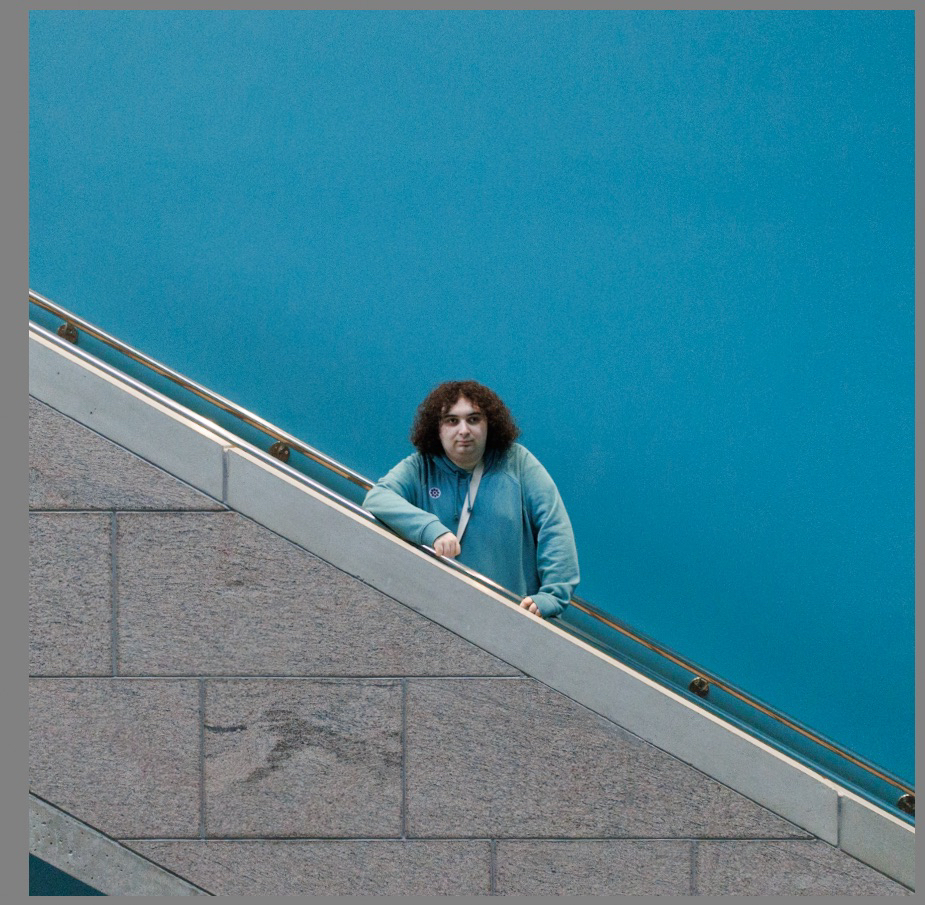
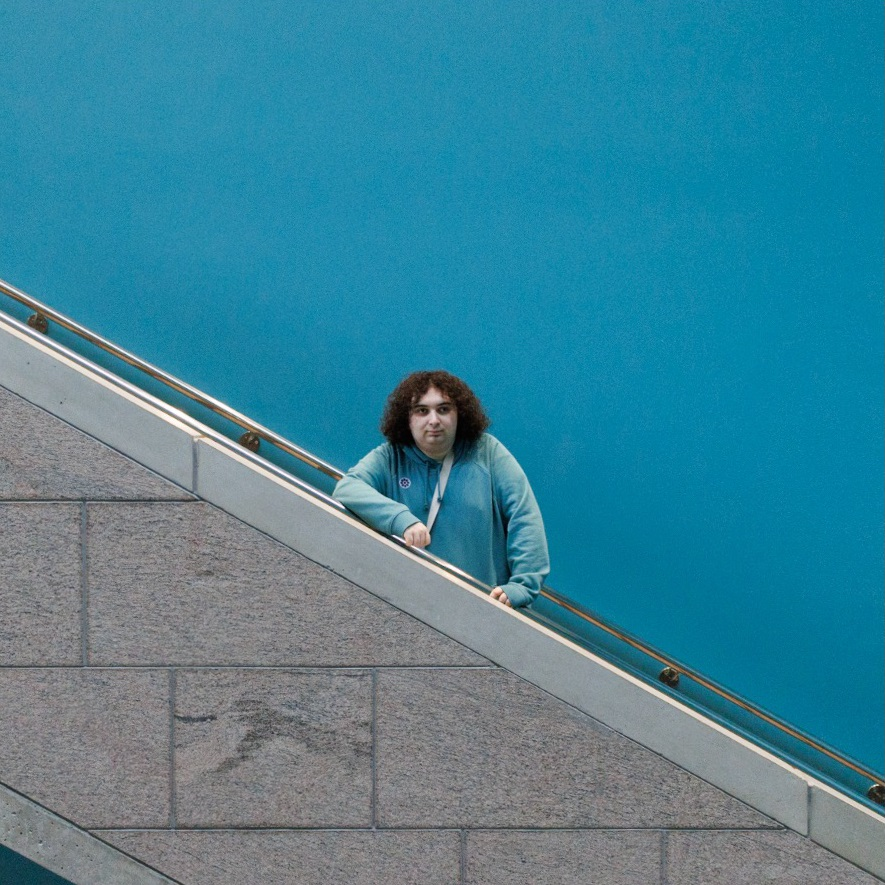
fix: full width staff photos in profile component

Changed region(s): [[0.0, 0.0, 1.0, 1.0]]

diff --git a/app/components/profile.tsx b/app/components/profile.tsx
@@ -14,7 +14,7 @@ const Profile: React.FC<ProfileProps> = ({ name, position, image }) => {
         <img
           src={image}
           alt={name}
-          className="hover:scale-110 transition duration-300 rounded-2xl object-cover object-top aspect-square"
+          className="hover:scale-110 transition duration-300 object-cover object-top aspect-square w-full"
           loading="lazy"
         />
       </div>
